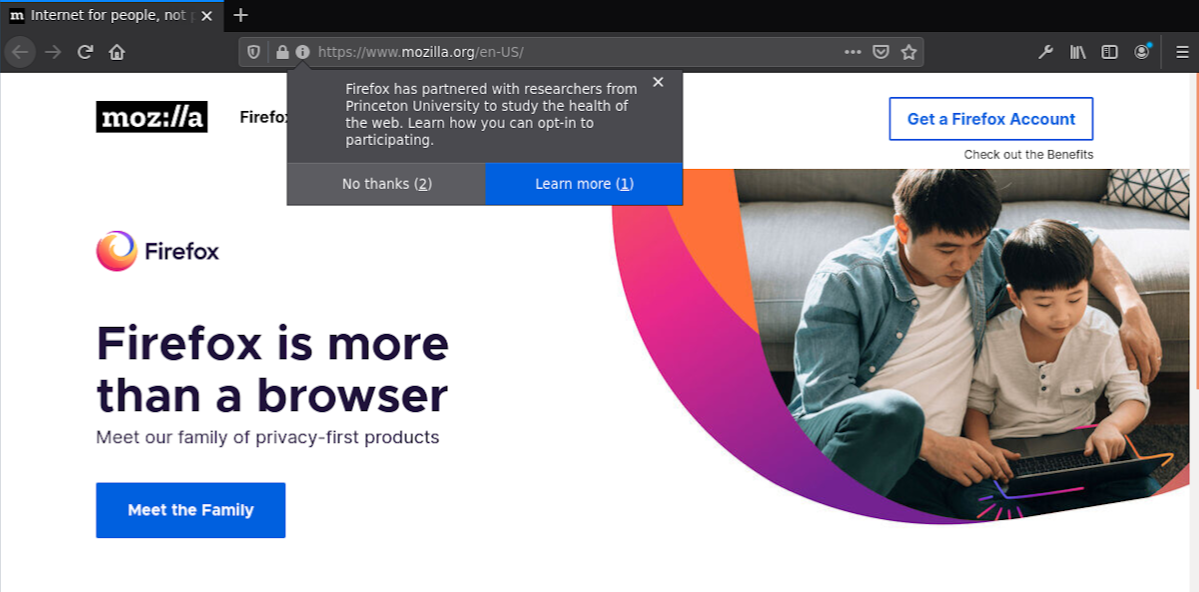
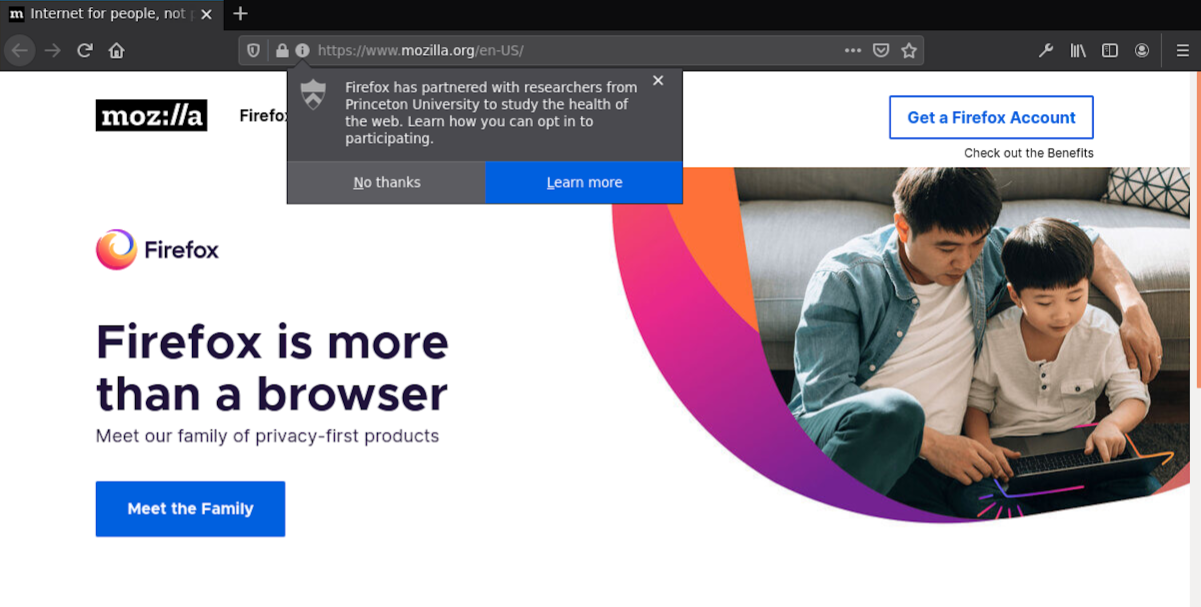
tweaks and grammar fixes

diff --git a/privileged.js b/privileged.js
@@ -20,14 +20,13 @@ this.privileged = class extends ExtensionAPI {
                         allowPopups: false,
                     });
 
-                    /*
                     // XUL appendNotification API
                     var notificationBox = currentWindow.gHighPriorityNotificationBox;
 
                     var notice = notificationBox.appendNotification(
-                        "Firefox has partnered with researchers from Princeton University to study the health of the web. Learn how you can opt-in to participating.", // label
+                        "Firefox has partnered with researchers from Princeton University to study the health of the web. Learn how you can opt in to participating.", // label
                         "uxmockup", // value
-                        "", // image
+                        null, //couldn't get a relative path to work, used absolute for screenshots "file:///pathtohereicons/princeton_university_shield.svg", // image
                         notificationBox.PRIORITY_INFO_HIGH, // priority
                         // buttons
                         [
@@ -43,24 +42,24 @@ this.privileged = class extends ExtensionAPI {
                           },
                         ]
                     );
-                    */
                     
+                    /*
                     // PopupNotifications API
                     currentWindow.PopupNotifications.show(
                         currentWindow.gBrowser.selectedBrowser, // browser
                         "uxmockup-popup", // id
-                        "Firefox has partnered with researchers from Princeton University to study the health of the web. Learn how you can opt-in to participating.", // message
+                        "Firefox has partnered with researchers from Princeton University to study the health of the web. Learn how you can opt in to participating.", // message
                         null, // anchor id
                         { // main action
-                            label: "Learn more",
-                            accessKey: "1",
+                            label: "Learn more", // add a \t at the end here...
+                            accessKey: "L",      // ...and a \t replacing the L here to have no underlined character
                             callback: function() { }
                         },
 
                         [ // secondary actions
                             {
                                 label: "No thanks",
-                                accessKey: "2",
+                                accessKey: "N",
                                 callback: function() { }
                             }
                         ],
@@ -68,10 +67,13 @@ this.privileged = class extends ExtensionAPI {
                         {
                             "persistence": 10,
                             "persistWhileVisible": true,
-                            "dismissed": true
+                            "dismissed": true,
+                            // if we go with something like this, we'll need to use the right (light or dark) version
+                            //"popupIconURL": //couldn't get a relative path to work, used absolute for screenshots "file:///pathtohere/icons/princeton_university_shield_light.png"
                         }
                     );
-                    
+                    */
+
                 }
             }
         }

diff --git a/README.md b/README.md
@@ -4,7 +4,7 @@ If you want to test the options yourself, note that you'll need to run a [nightl
 version of Firefox](https://www.mozilla.org/en-US/firefox/channel/desktop/).
 
 Below are two options for the notification, with sample language for requesting consent.
-The language is still preliminary.
+The language and icons are still preliminary.
 
 ### Option 1:
 `appendNotification` API:
